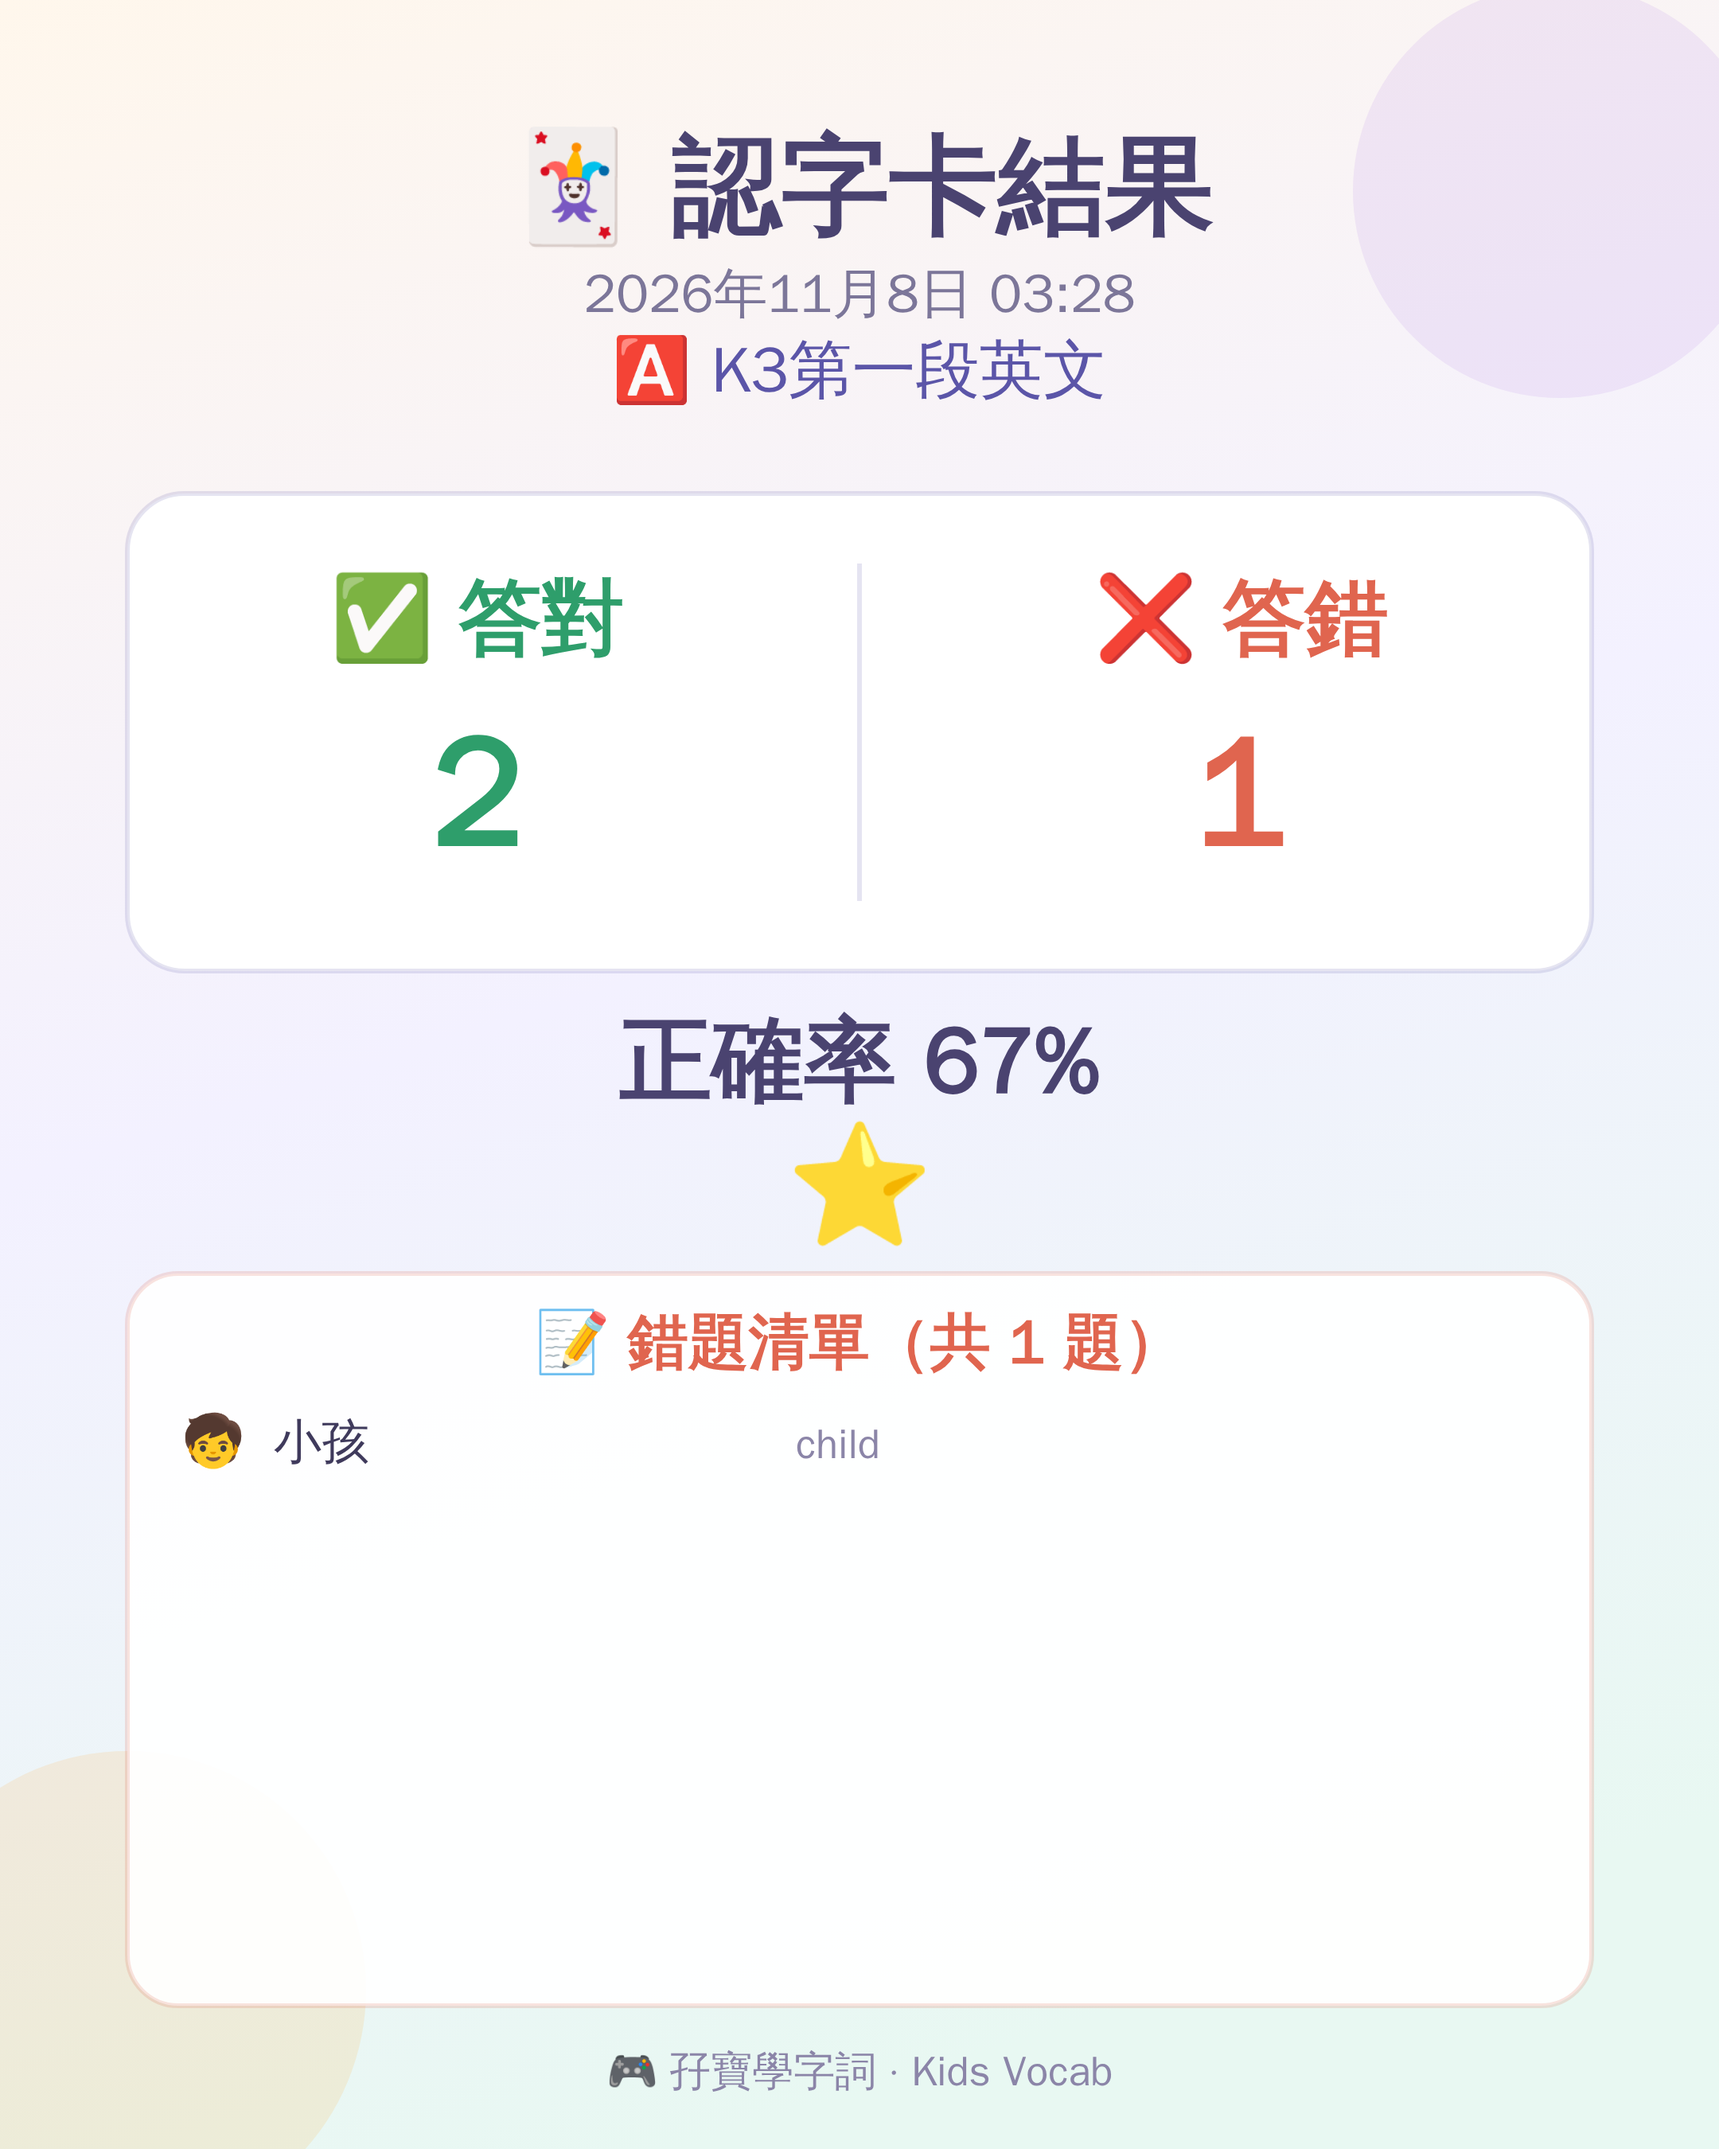
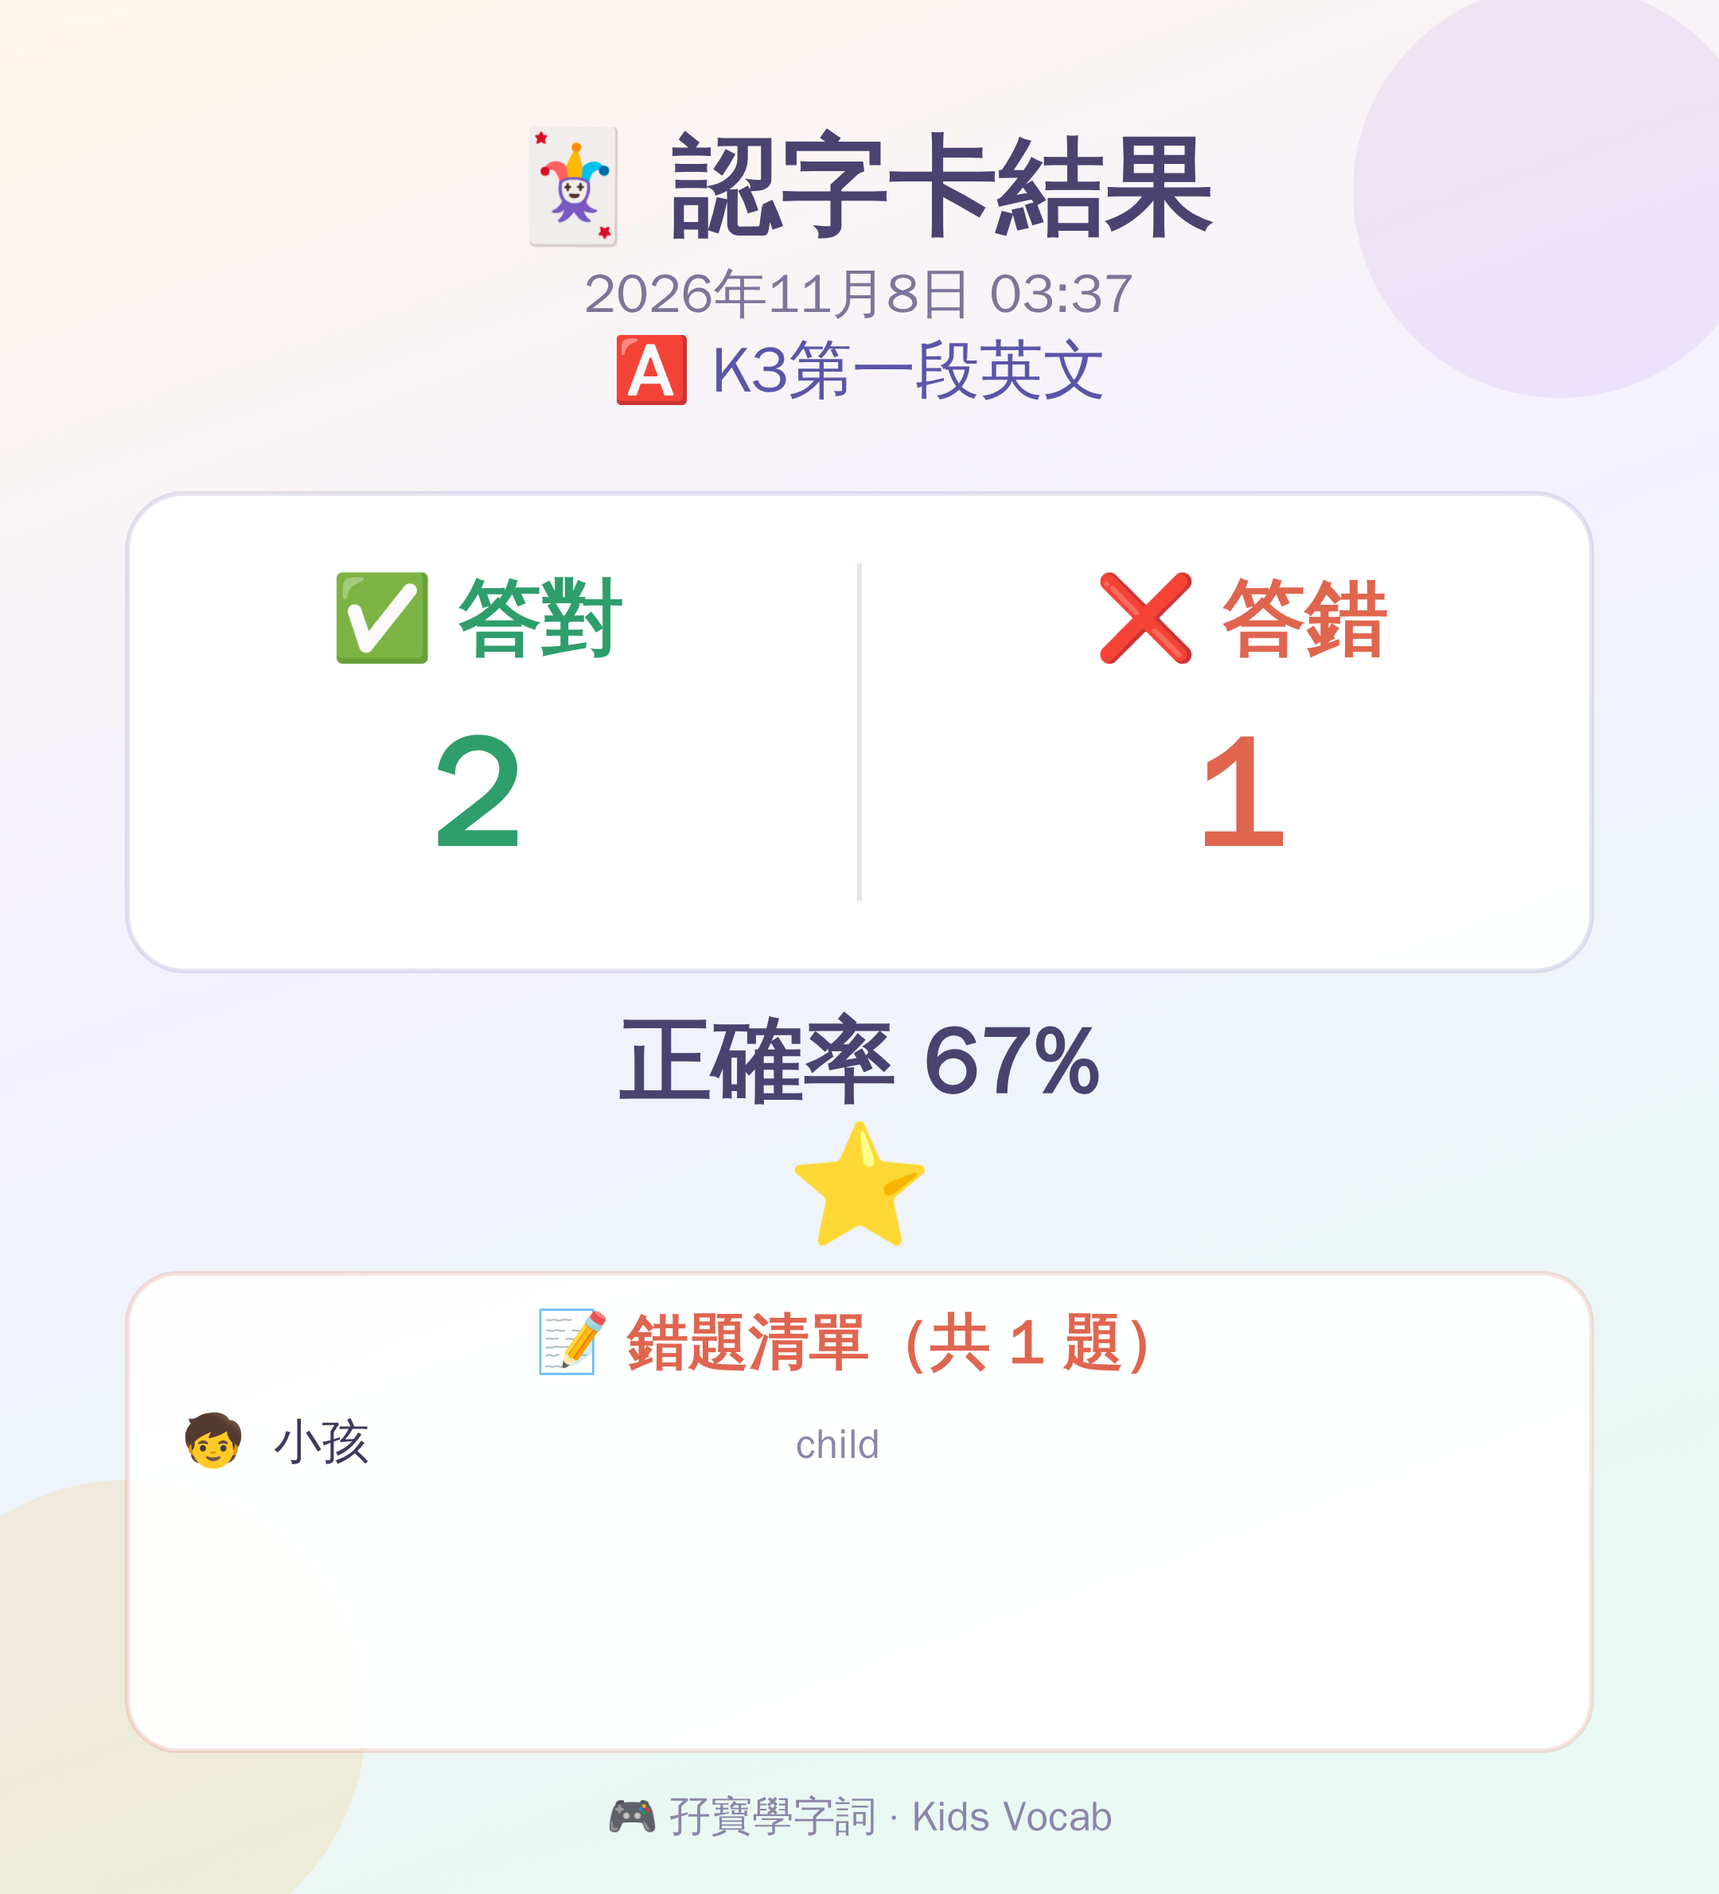
fix(kids-vocab): 結果截圖錯題清單改為完整列出（畫布高度按題數動態增長）

diff --git a/index.html b/index.html
@@ -2279,10 +2279,17 @@
         // 內容：標題、日期時間、學習分類、答對／答錯、正確率、星星、錯題清單、專案名。
         // ============================================================
         const RESULT_CANVAS_WIDTH = 1080;
-        const RESULT_CANVAS_HEIGHT = 1350;
+        const RESULT_CANVAS_BASE_HEIGHT = 1350;   // 基礎高度（錯題少時使用）
+        const RESULT_LIST_TOP = 800;              // 錯題清單方塊頂部
+        const RESULT_LIST_TITLE_H = 116;          // 清單標題高度
+        const RESULT_ROW_H = 40;                  // 每行高度
+        const RESULT_LIST_PAD_BOTTOM = 52;        // 清單底部留白
+        const RESULT_FOOTER_H = 90;               // 底部專案名留白
+        const RESULT_MAX_ROWS = 120;              // 錯題上限（只在此極端情況才截斷）
         const RESULT_CANVAS_SCALE = 2;
         const RESULT_FONT_STACK = '"PingFang TC", "Hiragino Sans GB", "Microsoft JhengHei", "Noto Sans CJK TC", "Noto Sans TC", "WenQuanYi Zen Hei", "Noto Color Emoji", system-ui, sans-serif';
         let lastResultPng = '';
+        let lastResultRows = 0;      // 結果圖中實際列出的錯題行數（供測試驗證）
 
         function resultFont(ctx, size, weight) {
             ctx.font = `${weight || 700} ${size}px ${RESULT_FONT_STACK}`;
@@ -2349,9 +2356,13 @@
 
         // 手繪結果圖 → 回傳 canvas，並更新 lastResultPng
         function renderResultCanvas() {
+            // 錯題清單高度按實際題數動態計算：全部錯題都會列出（唔再截斷為 10 題）
+            const rows = Math.min(fcWrongList.length, RESULT_MAX_ROWS);
+            const listH = Math.max(300, RESULT_LIST_TITLE_H + rows * RESULT_ROW_H + RESULT_LIST_PAD_BOTTOM);
+            const canvasH = RESULT_LIST_TOP + listH + RESULT_FOOTER_H;
             const canvas = document.createElement('canvas');
             canvas.width = RESULT_CANVAS_WIDTH * RESULT_CANVAS_SCALE;
-            canvas.height = RESULT_CANVAS_HEIGHT * RESULT_CANVAS_SCALE;
+            canvas.height = canvasH * RESULT_CANVAS_SCALE;
             const ctx = canvas.getContext('2d');
             if (!ctx) return null;
             ctx.scale(RESULT_CANVAS_SCALE, RESULT_CANVAS_SCALE);
@@ -2360,17 +2371,17 @@
             const { accuracy, stars } = computeResultStats();
 
             // ---- 背景 ----
-            const bg = ctx.createLinearGradient(0, 0, W * 0.4, RESULT_CANVAS_HEIGHT);
+            const bg = ctx.createLinearGradient(0, 0, W * 0.4, canvasH);
             bg.addColorStop(0, '#FFF7EC');
             bg.addColorStop(0.5, '#F3F1FF');
             bg.addColorStop(1, '#E8F8F2');
             ctx.fillStyle = bg;
-            ctx.fillRect(0, 0, W, RESULT_CANVAS_HEIGHT);
+            ctx.fillRect(0, 0, W, canvasH);
 
             ctx.fillStyle = 'rgba(155,93,229,0.10)';
             ctx.beginPath(); ctx.arc(980, 120, 130, 0, Math.PI * 2); ctx.fill();
             ctx.fillStyle = 'rgba(255,182,72,0.16)';
-            ctx.beginPath(); ctx.arc(80, 1250, 150, 0, Math.PI * 2); ctx.fill();
+            ctx.beginPath(); ctx.arc(80, canvasH - 110, 150, 0, Math.PI * 2); ctx.fill();
 
             ctx.textAlign = 'center';
             ctx.textBaseline = 'alphabetic';
@@ -2430,8 +2441,8 @@
             resultFont(ctx, 74, 400);
             ctx.fillText('\u2B50\uFE0F'.repeat(stars), W / 2, 770);
 
-            // ---- 錯題清單（最多 10 題）----
-            const boxX = 80, boxY = 800, boxW = 920, boxH = 460;
+            // ---- 錯題清單（高度按題數動態增長，全部錯題都會列出）----
+            const boxX = 80, boxY = RESULT_LIST_TOP, boxW = 920, boxH = listH;
             roundRectPath(ctx, boxX, boxY, boxW, boxH, 32);
             ctx.fillStyle = 'rgba(255,255,255,0.92)';
             ctx.fill();
@@ -2444,22 +2455,23 @@
             fitFontSize(ctx, listTitle, boxW - 220, 38, 800, 24);
             ctx.fillText(listTitle, W / 2, boxY + 56);
 
-            if (fcWrong > 10) {
+            if (fcWrongList.length > RESULT_MAX_ROWS) {
                 ctx.textAlign = 'right';
                 ctx.fillStyle = '#8B85A8';
                 resultFont(ctx, 24, 600);
-                ctx.fillText(`…等 ${fcWrong} 題`, boxX + boxW - 30, boxY + 56);
+                ctx.fillText(`顯示前 ${RESULT_MAX_ROWS} 題／共 ${fcWrong} 題`, boxX + boxW - 30, boxY + 56);
                 ctx.textAlign = 'center';
             }
 
-            const list = fcWrongList.slice(0, 10);
+            const list = fcWrongList.slice(0, RESULT_MAX_ROWS);
+            lastResultRows = list.length;
             if (list.length === 0) {
                 ctx.fillStyle = '#7C7699';
                 resultFont(ctx, 40, 600);
                 ctx.fillText('全部答對，實力滿分！', W / 2, boxY + 180);
             } else {
                 list.forEach((w, idx) => {
-                    const y = boxY + 116 + idx * 34;
+                    const y = boxY + RESULT_LIST_TITLE_H + idx * RESULT_ROW_H;
                     ctx.textAlign = 'left';
                     resultFont(ctx, 32, 400);
                     ctx.fillText(String(w.emoji || '•'), boxX + 34, y);
@@ -2476,7 +2488,7 @@
             // ---- 底部專案名 ----
             ctx.fillStyle = '#8B85A8';
             resultFont(ctx, 26, 600);
-            ctx.fillText('🎮 孖寶學字詞 · Kids Vocab', W / 2, 1310);
+            ctx.fillText('🎮 孖寶學字詞 · Kids Vocab', W / 2, canvasH - 40);
 
             try {
                 lastResultPng = canvas.toDataURL('image/png');
@@ -2588,6 +2600,7 @@
         window.__kidsVocab = {
             renderResultCanvas: () => renderResultCanvas(),
             get lastResultPng() { return lastResultPng; },
+            get lastResultRows() { return lastResultRows; },
             currentGrade: () => getCategorySelectionState(activeGameKey === 'dictation' ? 'dictation' : 'word').grade,
             currentLang: () => getCategorySelectionState(activeGameKey === 'dictation' ? 'dictation' : 'word').lang,
             selectedCategory: () => (activeGameKey === 'dictation' ? dictCategory : currentCategory),

diff --git a/CHANGELOG.md b/CHANGELOG.md
@@ -3,6 +3,18 @@
 本檔案記錄 kids-vocab 的版本變更。
 版本格式：`v.YYYY-MM-DD-NNN`（同一日內遞增流水號；跨日則重設為 001）。
 
+## v.2026-11-08-002
+
+### 修正
+- **結果截圖的錯題清單不再截斷為 10 題**：Nathan 實測答錯 20 題時，截圖只列出 10 題並顯示「…等 20 題」。
+  現在**全部錯題都會完整列出**，畫布高度按題數動態增長（每行 40px + 標題區 + 底部留白），
+  底部專案名位置亦隨之計算。例：12 題 → 2160×3076、20 題 → 2160×3716（2 倍渲染）。
+- 移除舊有的「…等 N 題」提示；只有錯題超過 120 題（極端情況）才會顯示「顯示前 120 題／共 N 題」。
+
+### 驗證
+- `verify-grouping.mjs` **44/44 通過**（新增：12 題全部列出、20 題全部列出、畫布高度隨題數增長）
+- console error 0、pageerror 0；`validate-vocab.mjs` 結果與改動前一致
+
 ## v.2026-11-08-001
 
 ### 新增
